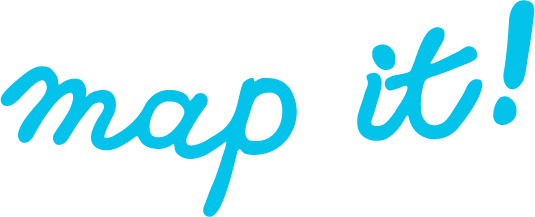
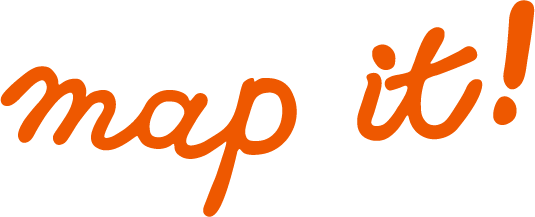
Added some styling.

Changed region(s): [[0.0, 0.3041, 0.5682, 1.0], [0.6579, 0.0, 1.0, 0.6636]]

diff --git a/js/map.js b/js/map.js
@@ -2,13 +2,15 @@ var map;
 var infoBubble;
 var messageBubble;
 var point;
+var mapstyles;
 
 function initMap() {
     var start = {lat: 54.352156, lng: 18.645932};
     
     map = new google.maps.Map(document.getElementById('map'), {
         center: start,
-        zoom: 15
+        zoom: 15,
+        styles: mapstyles
     });
 
     infoBubble = new google.maps.InfoWindow({
@@ -36,4 +38,157 @@ function saveData() {
     infoBubble.close();
     messageBubble.open(map, point);
 };
+
+mapstyles = [
+    {
+        "featureType": "all",
+        "elementType": "geometry",
+        "stylers": [
+            {
+                "color": "#0090ee"
+            }
+        ]
+    },
+    {
+        "featureType": "all",
+        "elementType": "labels.text",
+        "stylers": [
+            {
+                "weight": "1"
+            }
+        ]
+    },
+    {
+        "featureType": "all",
+        "elementType": "labels.text.fill",
+        "stylers": [
+            {
+                "gamma": 0.01
+            },
+            {
+                "lightness": "13"
+            },
+            {
+                "weight": "1"
+            }
+        ]
+    },
+    {
+        "featureType": "all",
+        "elementType": "labels.text.stroke",
+        "stylers": [
+            {
+                "saturation": "-26"
+            },
+            {
+                "lightness": -33
+            },
+            {
+                "weight": 2
+            },
+            {
+                "gamma": 0.8
+            },
+            {
+                "visibility": "off"
+            }
+        ]
+    },
+    {
+        "featureType": "all",
+        "elementType": "labels.icon",
+        "stylers": [
+            {
+                "visibility": "off"
+            }
+        ]
+    },
+    {
+        "featureType": "landscape",
+        "elementType": "geometry",
+        "stylers": [
+            {
+                "lightness": "21"
+            },
+            {
+                "saturation": "53"
+            }
+        ]
+    },
+    {
+        "featureType": "poi",
+        "elementType": "geometry",
+        "stylers": [
+            {
+                "saturation": "55"
+            },
+            {
+                "lightness": "2"
+            }
+        ]
+    },
+    {
+        "featureType": "poi.park",
+        "elementType": "geometry",
+        "stylers": [
+            {
+                "lightness": "31"
+            },
+            {
+                "saturation": "100"
+            }
+        ]
+    },
+    {
+        "featureType": "road",
+        "elementType": "geometry",
+        "stylers": [
+            {
+                "lightness": "-2"
+            },
+            {
+                "saturation": "7"
+            }
+        ]
+    },
+    {
+        "featureType": "road",
+        "elementType": "geometry.stroke",
+        "stylers": [
+            {
+                "saturation": 25
+            },
+            {
+                "lightness": 25
+            }
+        ]
+    },
+    {
+        "featureType": "road",
+        "elementType": "labels.text.stroke",
+        "stylers": [
+            {
+                "visibility": "off"
+            }
+        ]
+    },
+    {
+        "featureType": "water",
+        "elementType": "all",
+        "stylers": [
+            {
+                "lightness": "-10"
+            },
+            {
+                "saturation": "57"
+            },
+            {
+                "gamma": "0.95"
+            },
+            {
+                "color": "#0081e5"
+            }
+        ]
+    }
+]
 

diff --git a/css/main.css b/css/main.css
@@ -13,23 +13,23 @@ body{
 
 .logo {
   position: fixed;
-  right: 9vw;
-  top: 2vw;
-  height: 6vw;
+  right: 9vh;
+  top: 2vh;
+  height: 6vh;
   z-index: 90;
 }
 
 .login {
   position: fixed;
-  width: 5vw;
-  height: 5vw;
-  top: 2vw;
-  right: 2vw;
-  background-color: #03c3eb;
-  border-radius: 2.5vw;
+  width: 5vh;
+  height: 5vh;
+  top: 2vh;
+  right: 2vh;
+  background-color: #ee5800;
+  border-radius: 2.5vh;
   border-width: 0;
   z-index: 90;
-  /*box-shadow: 0 2px 4px 0 rgba(0, 0, 0, 0.2), 0 3px 10px 0 rgba(0, 0, 0, 0.19); */
+  box-shadow: 0 2px 4px 0 rgba(0, 0, 0, 0.2), 0 3px 10px 0 rgba(0, 0, 0, 0.19); 
 }
 
 .login_window {
@@ -44,6 +44,7 @@ body{
   background-color: #fff;
   z-index: 100;
   padding: 10px;
+  box-shadow: 0 2px 4px 0 rgba(0, 0, 0, 0.2), 0 3px 10px 0 rgba(0, 0, 0, 0.19); 
 }
 
 .hidden {
